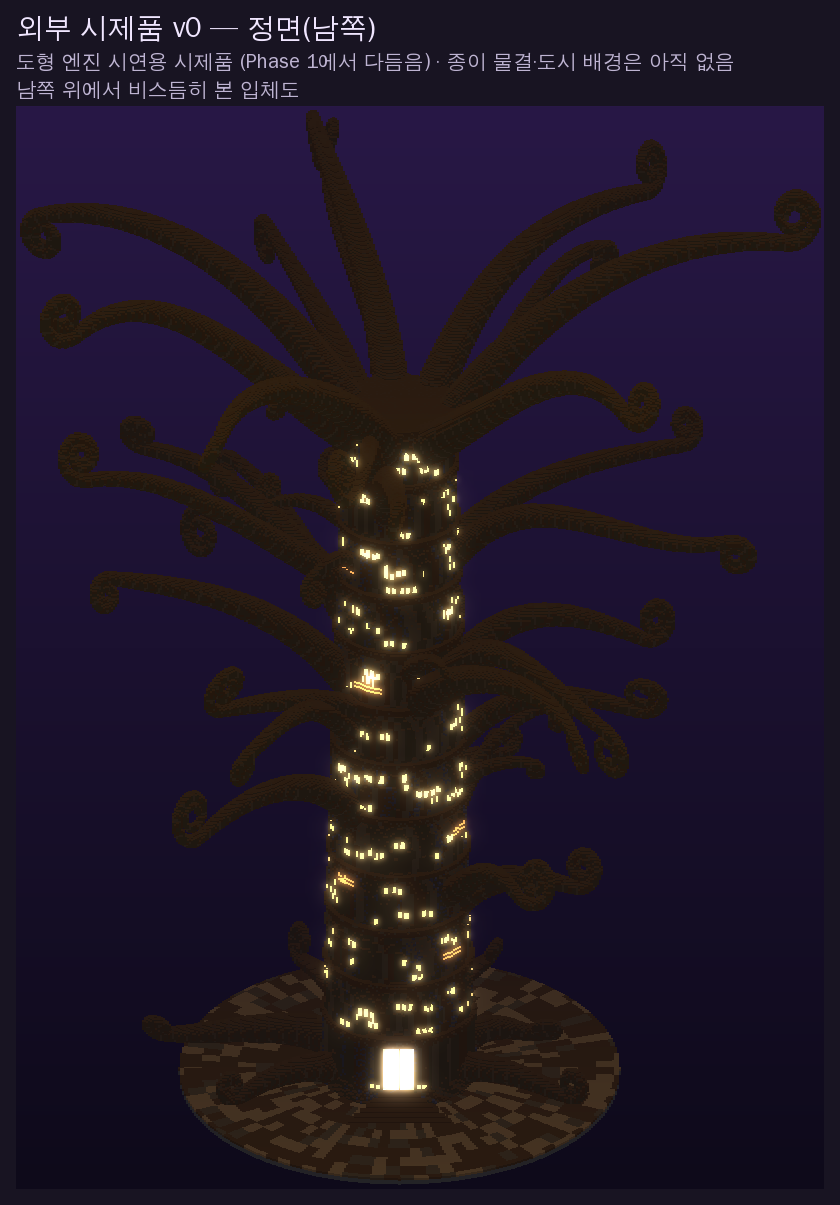
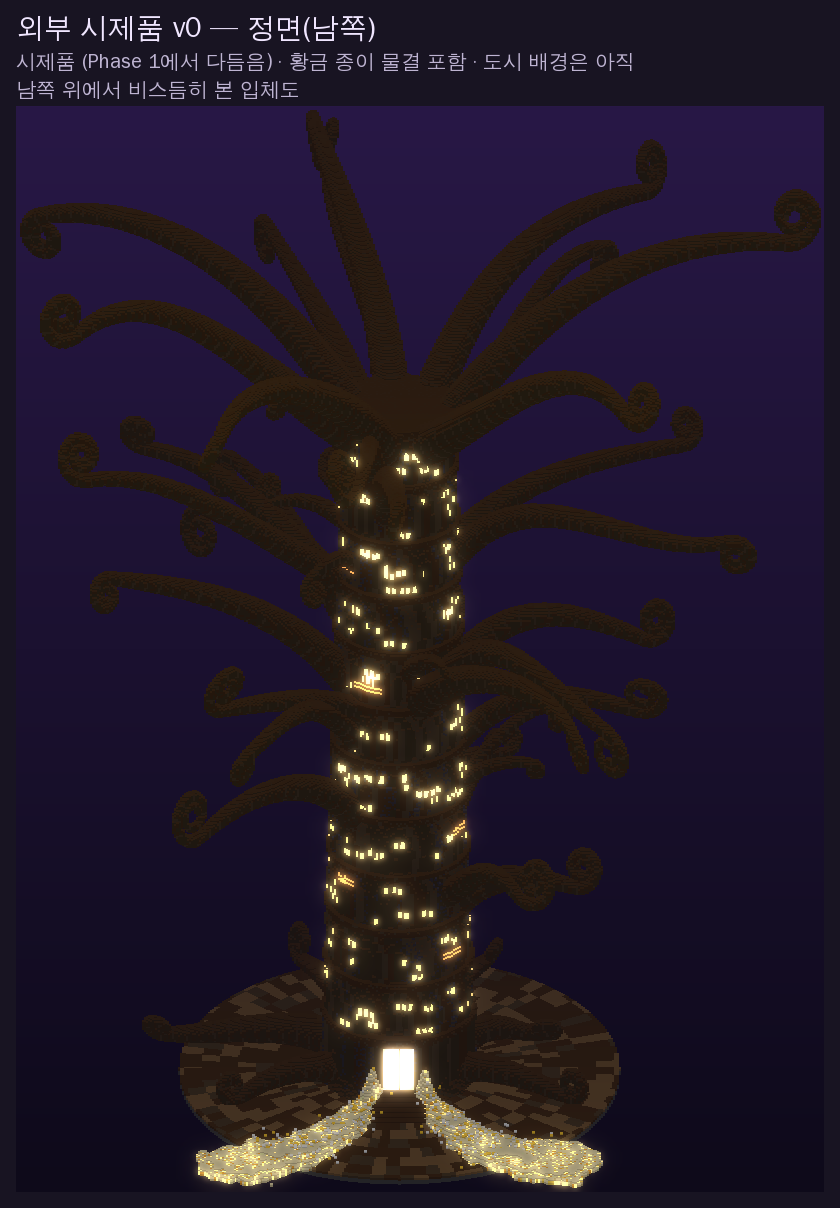
외부 시제품: 황금 종이 물결 (높이장 부품, 들쭉날쭉한 가장자리, 발광 블록, 흩어진 종이)
Claude-Session: https://claude.ai/code/session_01TMthQZez8AZM1HDS7CHfpq

diff --git a/builders/exterior.py b/builders/exterior.py
@@ -291,9 +291,81 @@ def stairs(d):
             d.fill(-hw, top, zb, hw, top, zb, "minecraft:dark_oak_stairs[facing=north,half=bottom]")
 
 
+# ---------------------------------------------------------------- 황금 종이 물결
+
+PAPER = ("minecraft:smooth_sandstone_stairs", "minecraft:smooth_sandstone_slab")
+PAPER_MIX = (["minecraft:smooth_sandstone", "minecraft:birch_planks", "minecraft:sandstone",
+              "minecraft:honeycomb_block", "minecraft:ochre_froglight", "minecraft:glowstone",
+              "minecraft:gold_block", "minecraft:end_stone_bricks"],
+             [30, 14, 8, 8, 14, 6, 4, 6])
+
+
+def _stream_path(side: int):
+    """종이 물결 중심선 (xz). 정문 옆 기단에서 출발해 계단 옆을 지나 앞·바깥으로 휘며 퍼짐."""
+    pts = np.array([[13, 37], [19, 47], [27, 60], [36, 72], [50, 84], [66, 92], [80, 96]], float) * K
+    pts[:, 0] *= side
+    return S.resample(np.c_[pts[:, 0], np.zeros(len(pts)), pts[:, 1]], 2.0)[:, [0, 2]]
+
+
+def _stream_height(side: int, seed: int):
+    path = _stream_path(side)
+
+    def h(X, Z):
+        dist, s, L = S.polyline_2d(path, X, Z)
+        u = s / L
+        half = (6 + 14 * u ** 0.8) * K                  # 반폭 6 → 20
+        top = (4.2 - 2.4 * u) * K                         # 높이 4.2 → 1.8
+        P = np.stack([X, np.zeros_like(X), Z], 1)
+        edge = half * (1 + 0.35 * S.fbm(P, 9.0 * K, 3, seed))   # 들쭉날쭉한 가장자리
+        v = np.clip(dist / np.maximum(edge, 1e-6), 0, None)
+        prof = np.where(v < 1, np.clip(1 - v ** 2, 0, None) ** 0.6, 0.0)
+        bumps = 0.7 * S.fbm(P, 4.0, 2, seed + 7)         # 종이 더미 울퉁불퉁
+        hh = -0.5 + (top + 0.5) * prof + bumps * prof
+        # 출발점: 기단 벽을 따라 흘러내림 (처음 10칸은 높게)
+        fall = np.clip(1 - s / (10 * K), 0, 1) * 14 * K * np.clip(1 - dist / (6 * K), 0, 1)
+        return np.where(prof > 0, hh + fall, -9.0)
+    return h
+
+
+def paper_parts():
+    parts = []
+    for side, seed in ((-1, 61), (1, 62)):
+        fn = _stream_height(side, seed)
+        xs = [p * side for p in (8 * K, 110 * K)]
+        parts.append(S.HeightField(fn, min(xs), 26 * K, max(xs), 125 * K, y0=-0.5, ymax=22 * K).with_(
+            paint=S.mix(*PAPER_MIX, seed=seed), smooth=PAPER, name=f"paper{side}"))
+    return parts
+
+
+def scatter_pages(d, seed=71):
+    """물결 위·주변에 흩어진 종이 (카펫). 물결에서 멀수록 드물게."""
+    rng = np.random.default_rng(seed)
+    pages = ["minecraft:white_carpet", "minecraft:white_carpet", "minecraft:yellow_carpet"]
+    R = int(PLAZA_R) - 2
+    for side in (-1, 1):
+        path = _stream_path(side)
+        xs = np.arange(-R, R + 1)
+        X, Z = np.meshgrid(xs, np.arange(20, R + 1), indexing="ij")
+        X, Z = X.ravel(), Z.ravel()
+        inside = np.hypot(X, Z) < R
+        dist, s, L = S.polyline_2d(path, X + 0.5, Z + 0.5)
+        half = (6 + 14 * (s / L) ** 0.8) * K
+        p = np.clip(1.2 - dist / (half * 1.6), 0, 1) ** 2 * 0.12
+        pick = inside & (rng.random(len(X)) < p)
+        for x, z in zip(X[pick], Z[pick]):
+            # 가장 높은 블록 위가 비었으면 종이 한 장
+            for y in range(int(22 * K), -2, -1):
+                st = d.get(int(x), y, int(z))
+                if st != "minecraft:air":
+                    if "carpet" not in st and "slab" not in st and "stairs" not in st and d.get(int(x), y + 1, int(z)) == "minecraft:air":
+                        d.set(int(x), y + 1, int(z), pages[rng.integers(len(pages))])
+                    break
+
+
 def build(b):
     d = b.dim("exterior")
     plaza(d)
     stairs(d)
-    st = S.carve(d, S.Union(*tower_parts()), shell=1, smooth=True)
+    st = S.carve(d, S.Union(*tower_parts(), *paper_parts()), shell=1, smooth=True)
+    scatter_pages(d)
     return st

diff --git a/tools/shapes.py b/tools/shapes.py
@@ -335,6 +335,48 @@ class Tube(Part):
         return out
 
 
+class HeightField(Part):
+    """땅 위에 쌓인 더미: 윗면 높이 h = fn(x, z) (배열 → 배열), 바닥 y0.
+
+    h <= y0 인 곳은 없음. 거리는 (y - h)를 기울기로 나눈 근사 (lip 넉넉히).
+    info: h(그 칸의 윗면 높이), depth(윗면에서 내려온 깊이)
+    """
+
+    def __init__(self, fn, x0, z0, x1, z1, y0: float, ymax: float, lip: float = 2.0):
+        self.fn, self.y0 = fn, float(y0)
+        self.lo = np.array([x0, y0, z0], float)
+        self.hi = np.array([x1 + 1, ymax, z1 + 1], float)
+        self.lip = lip
+
+    def d(self, P, lo=None, hi=None):
+        h = self.fn(P[:, 0], P[:, 2])
+        top = (P[:, 1] - h) / self.lip
+        bottom = self.y0 - P[:, 1]
+        return np.maximum(top, bottom)
+
+    def info(self, P):
+        h = self.fn(P[:, 0], P[:, 2])
+        return {"h": h, "depth": h - P[:, 1]}
+
+
+def polyline_2d(points, X, Z):
+    """xz 평면 꺾은선에 대한 (거리, 곡선 길이 위치, 길이 전체). points (M,2)."""
+    Q = np.asarray(points, float)
+    a, b = Q[:-1], Q[1:]
+    ab = b - a
+    L2 = np.maximum((ab * ab).sum(1), 1e-12)
+    seglen = np.sqrt(L2)
+    s0 = np.concatenate([[0], np.cumsum(seglen)[:-1]])
+    P = np.stack([X, Z], 1)
+    ap = P[:, None, :] - a[None]
+    t = np.clip((ap * ab[None]).sum(2) / L2[None], 0, 1)
+    diff = ap - t[..., None] * ab[None]
+    dist = np.sqrt((diff * diff).sum(2))
+    k = dist.argmin(1)
+    rows = np.arange(len(P))
+    return dist[rows, k], s0[k] + t[rows, k] * seglen[k], float(seglen.sum())
+
+
 # =================================================================== 곡선 도구
 
 def _simplify(Q: np.ndarray, tol: float) -> np.ndarray:

diff --git a/builders/previews.py b/builders/previews.py
@@ -53,10 +53,14 @@ def render_proto(out_dir):
     d = b.dims["exterior"]
     pal = Palette()
     files = []
-    notes = ["도형 엔진 시연용 시제품 (Phase 1에서 다듬음) · 종이 물결·도시 배경은 아직 없음"]
+    notes = ["시제품 (Phase 1에서 다듬음) · 황금 종이 물결 포함 · 도시 배경은 아직"]
     for view, name, title in (("se", "proto_exterior_v0_se.png", "외부 시제품 v0 — 남동쪽에서"),
                               ("front", "proto_exterior_v0_front.png", "외부 시제품 v0 — 정면(남쪽)")):
         p = os.path.join(out_dir, name)
         iso_panel(d, pal, title, notes, view=view, target=1500).save(p, optimize=True)
         files.append(p)
+    p = os.path.join(out_dir, "proto_exterior_v0_paper.png")
+    iso_panel(d, pal, "외부 시제품 — 정문과 황금 종이 물결 확대", notes, view="se",
+              box=(-120, -4, 0, 120, 40, 120), target=1400).save(p, optimize=True)
+    files.append(p)
     return files

diff --git a/previews/README.md b/previews/README.md
@@ -15,9 +15,10 @@
 ## 도형 엔진 시연 — 외부 건물 시제품 v0
 
 설계서(`design/exterior.md`) 수치로 만든 첫 시제품. 탑 11단, 창문 불빛, 정문, 끝이 말린 가지 41개, 뿌리, 원형 광장.
-(종이 물결·도시 배경·재질은 아직. Phase 1에서 다듬음)
+황금 종이 물결 추가 (정문 양옆 기단에서 흘러내려 앞으로 퍼짐, 발광 블록·흩어진 종이). 도시 배경·재질은 아직.
 
 | 그림 | 내용 |
 |---|---|
 | ![](proto_exterior_v0_se.png) | 남동쪽 위에서 본 입체도 |
 | ![](proto_exterior_v0_front.png) | 정면(남쪽) — 빛나는 정문과 계단 |
+| ![](proto_exterior_v0_paper.png) | 정문 앞 확대 — 황금 종이 물결 두 줄기 |
